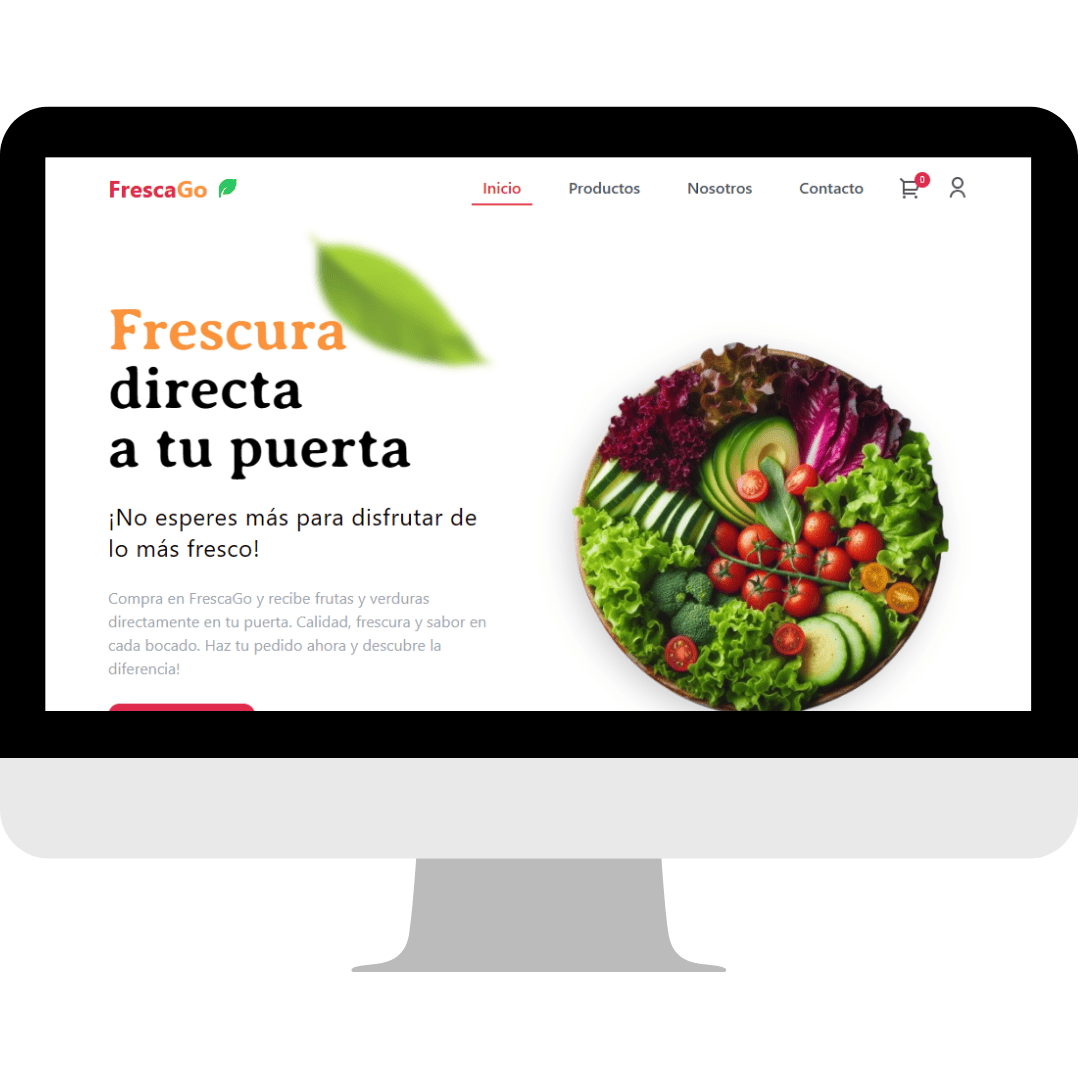
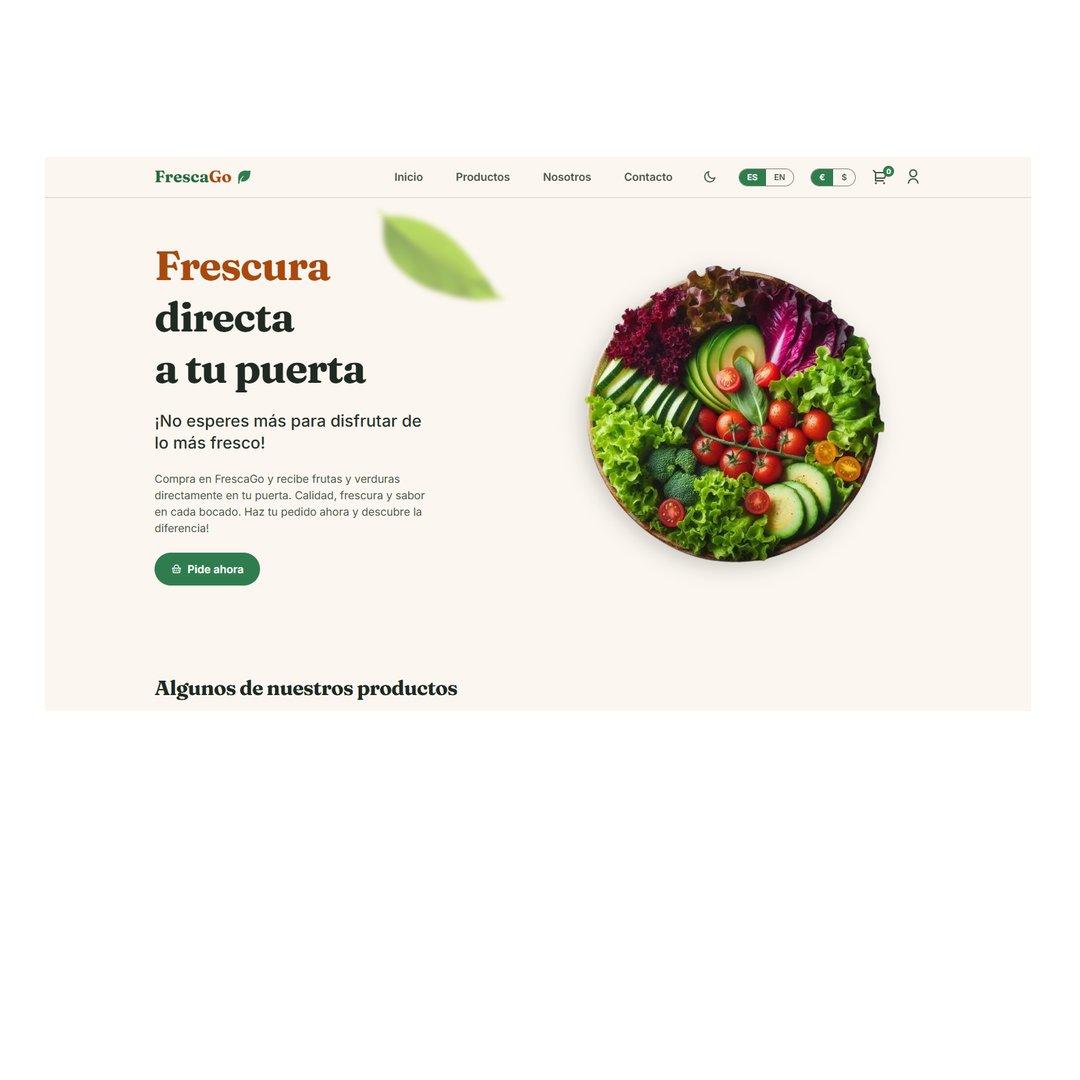
feat: update the FrescaGo project with new screenshots, stack and description

diff --git a/mi-portfolio/src/infrastructure/repositories/projectRepository.ts b/mi-portfolio/src/infrastructure/repositories/projectRepository.ts
@@ -67,19 +67,26 @@ const sources: ProjectSource[] = [
     desktopImage: FrescaGoDesktop,
     mobileImage: FrescaGoMobile,
     url: "frescago.vercel.app",
-    tech: ["React", "Tailwind CSS", "Node.js", "Firebase", "Stripe"],
+    tech: [
+      "React",
+      "TypeScript",
+      "Node.js",
+      "Firebase",
+      "Stripe",
+      "Tailwind CSS",
+    ],
     repoLink: "https://github.com/srdgz/frescaGo",
     demoLink: "https://frescago.vercel.app/",
     text: {
       es: {
         label: "Web",
         description:
-          "E-commerce con una experiencia de compra en línea completa, incluidos los pagos.",
+          "Tienda online de frutas y verduras bilingüe con precios en EUR/USD, envío gratis desde 30 €, pago con Stripe verificado en el backend y pedidos por usuario, con clean architecture, tests y accesibilidad WCAG.",
       },
       en: {
         label: "Web",
         description:
-          "E-commerce with a complete online shopping experience, including payments.",
+          "Bilingual online grocery shop with EUR/USD pricing, free shipping over €30, Stripe payments verified on the backend and per-user orders, built with clean architecture, tests and WCAG accessibility.",
       },
     },
   },
